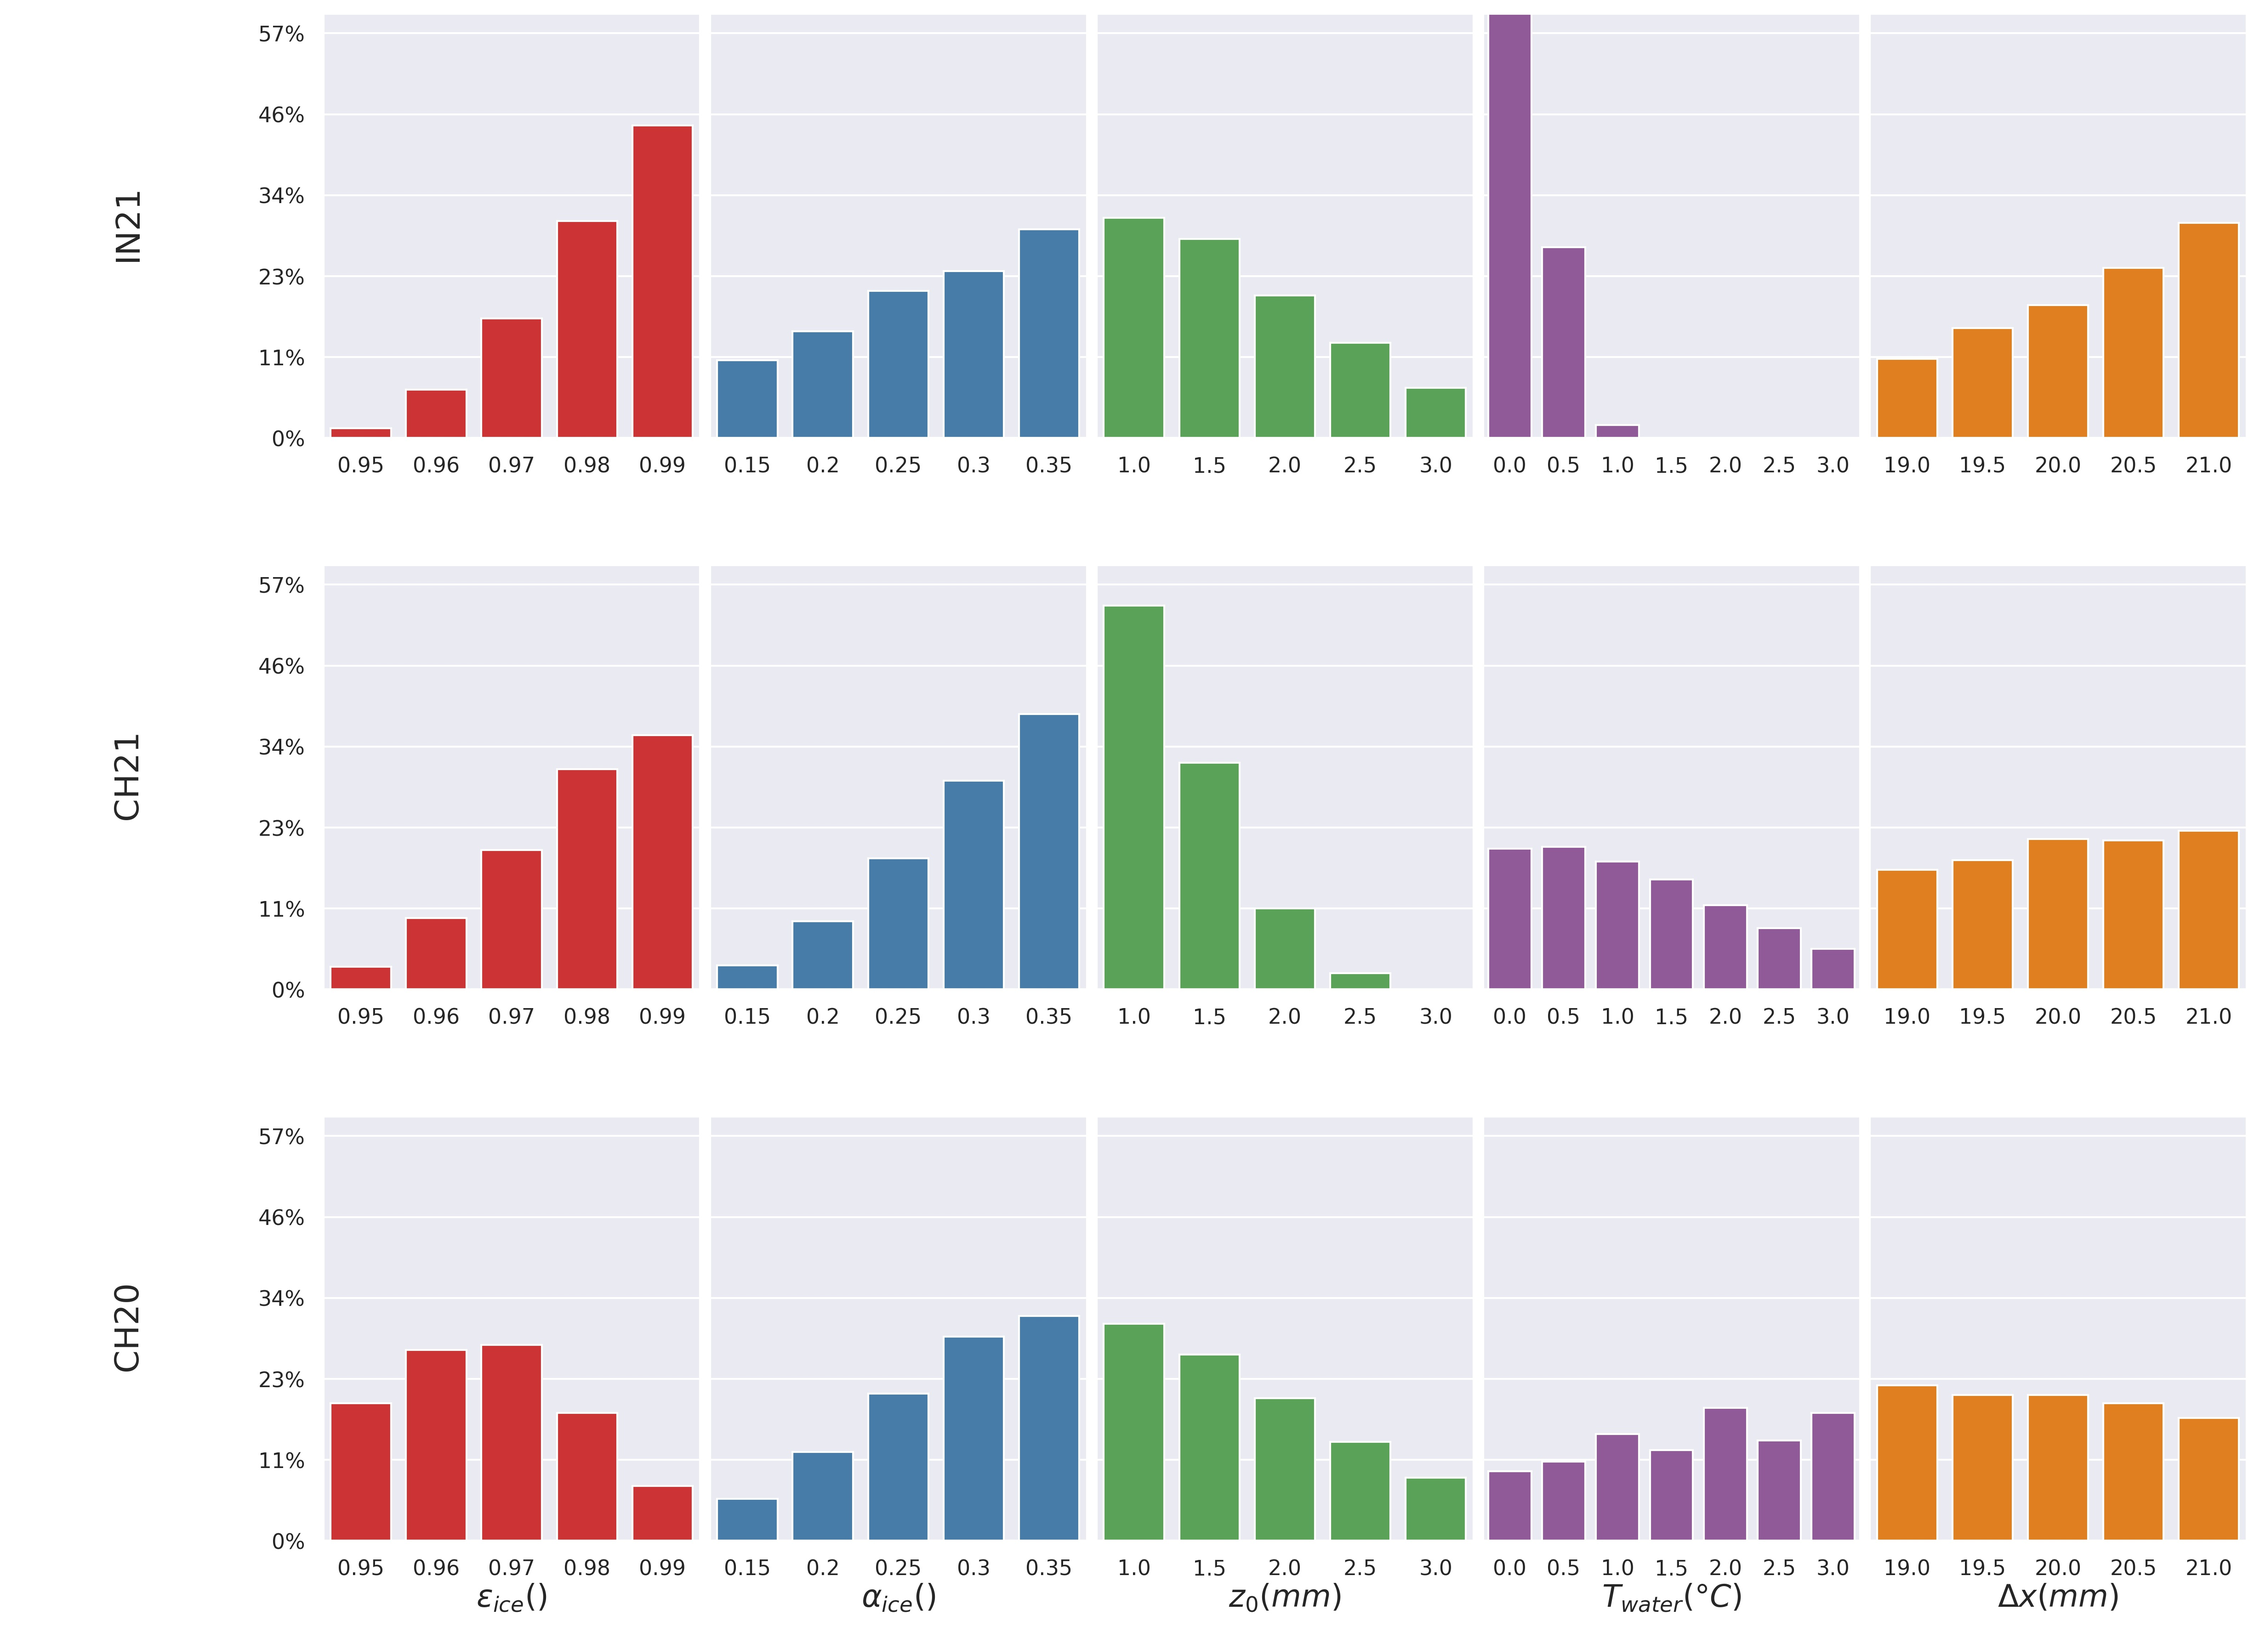
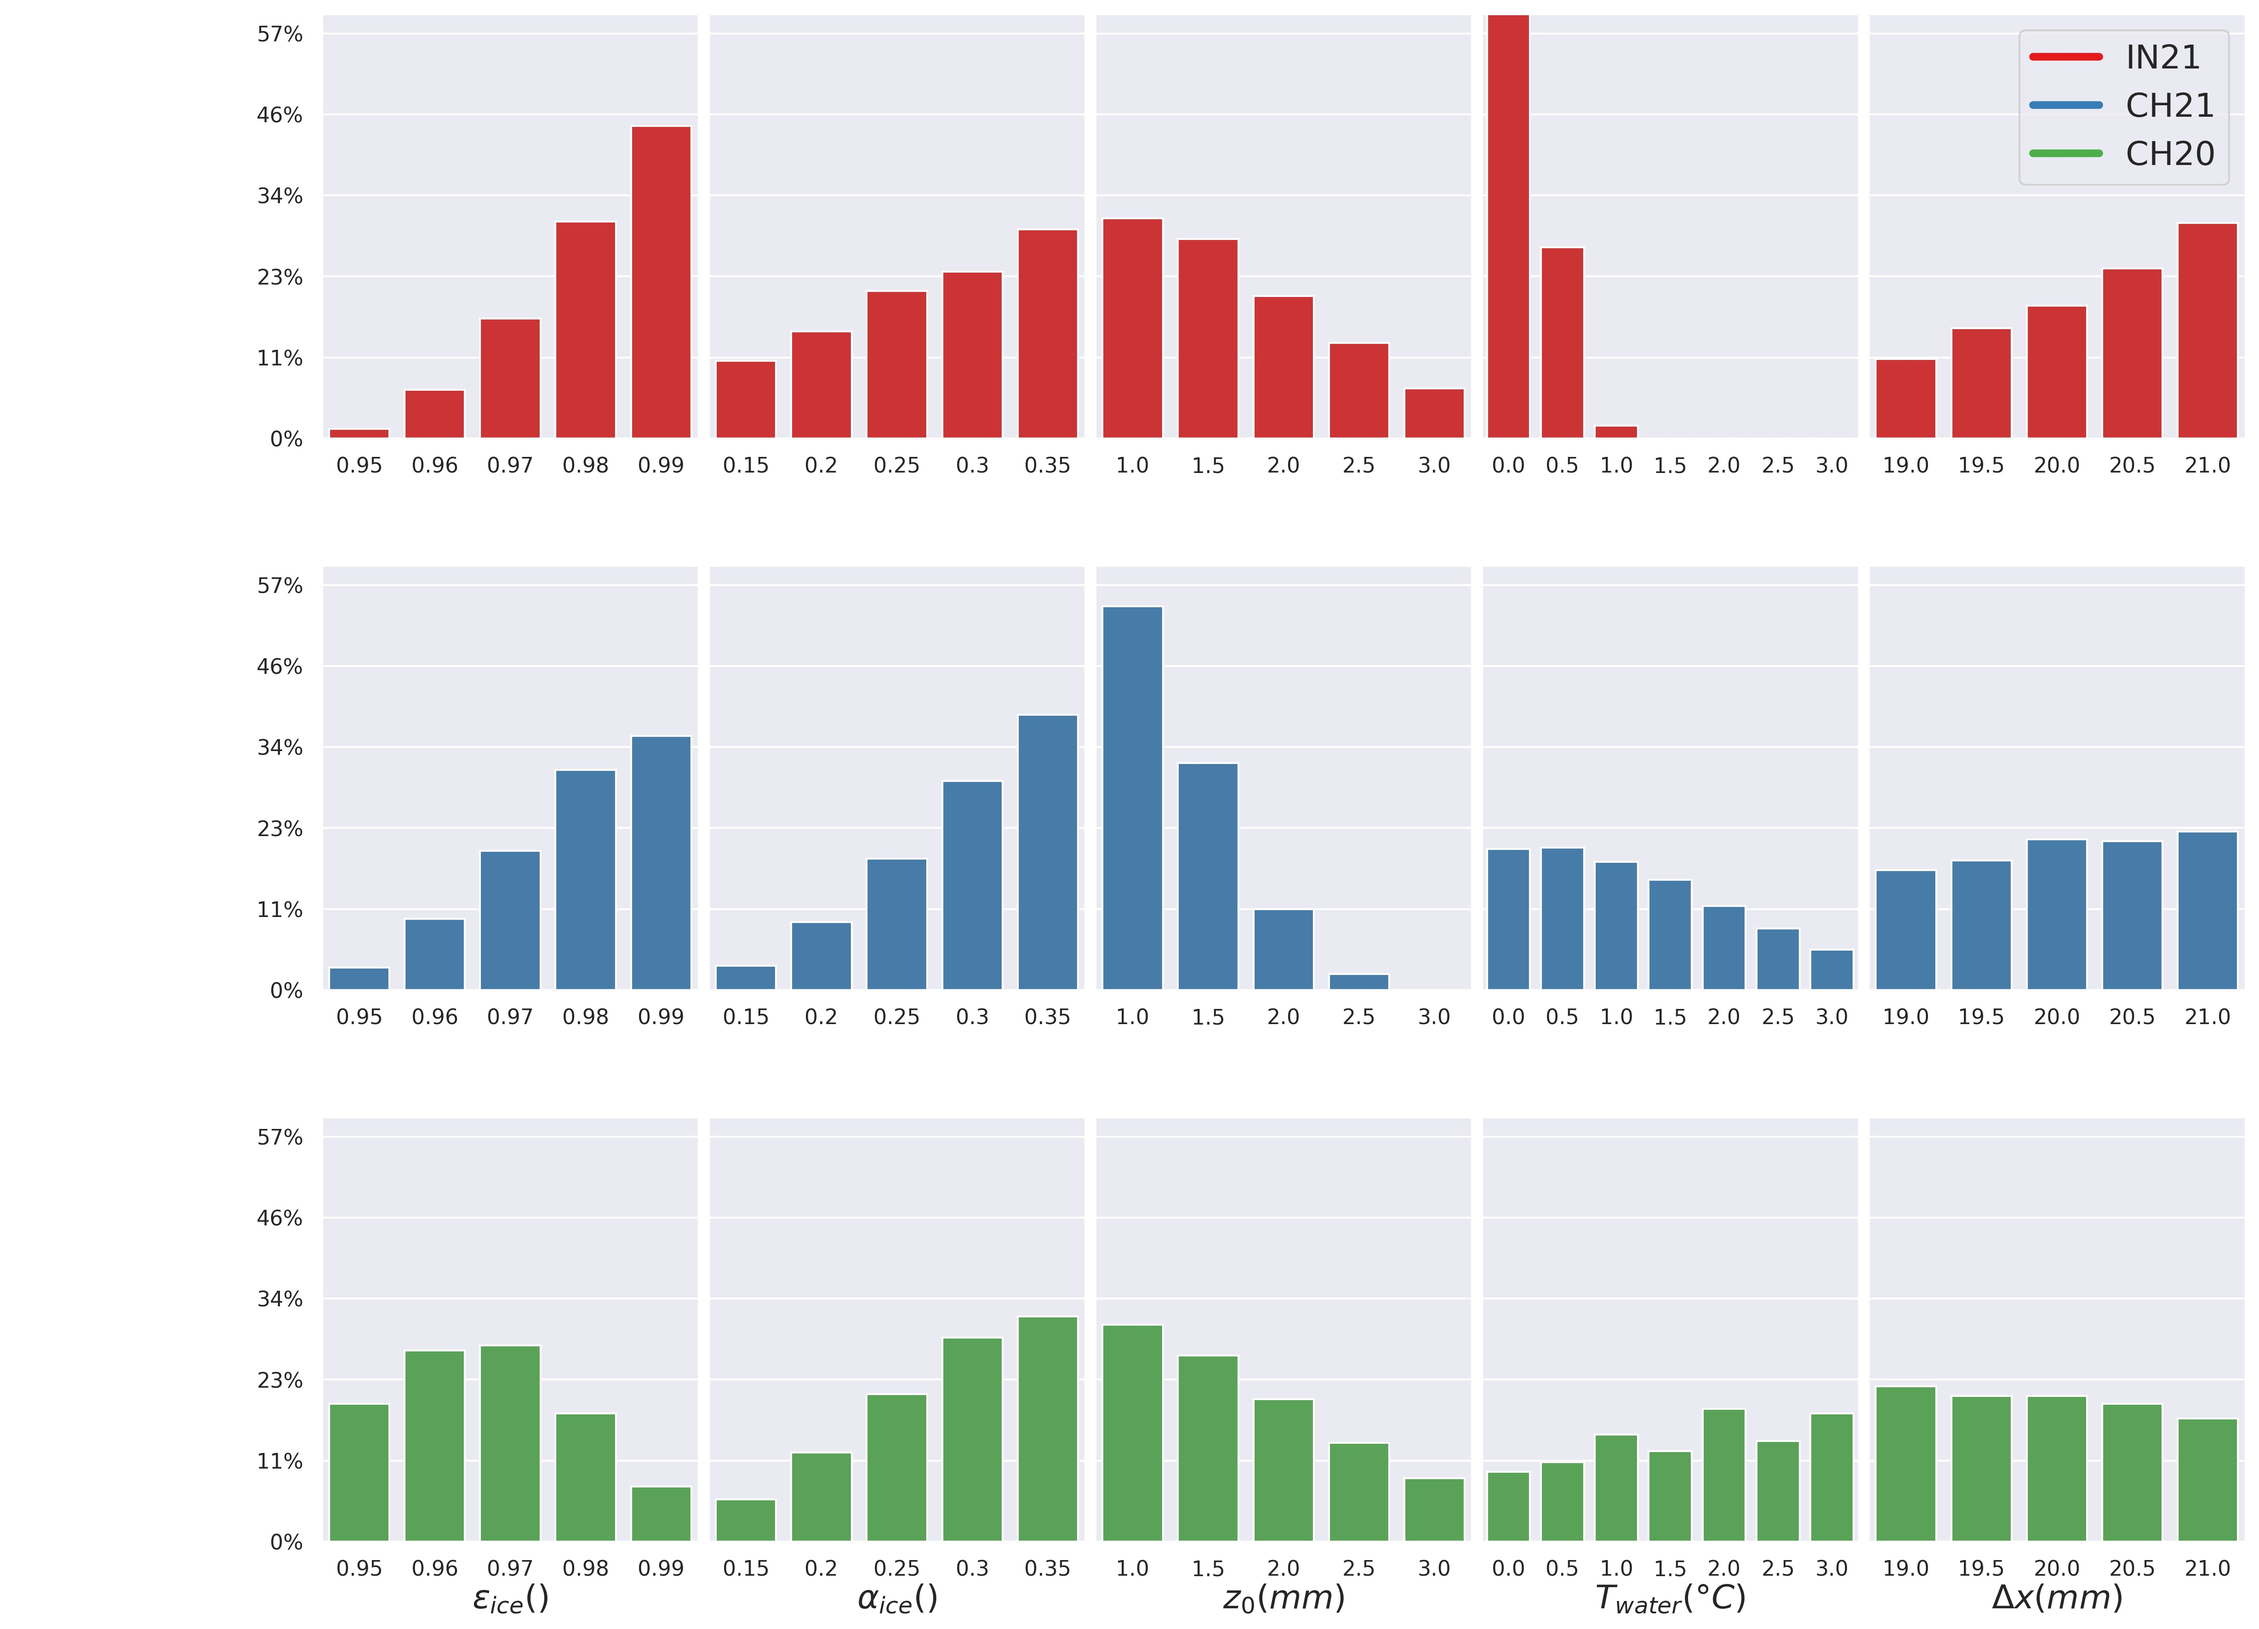
Prepare uq air

diff --git a/src/utils/sensitivity-histplot.py b/src/utils/sensitivity-histplot.py
@@ -16,6 +16,7 @@ import inspect
 import json
 from ast import literal_eval
 import matplotlib.ticker as mtick
+from matplotlib.lines import Line2D
 import math
 
 sys.path.append(
@@ -49,6 +50,10 @@ if __name__ == "__main__":
     # )
     fig = plt.figure(figsize=(18, 12))
     subfigs = fig.subfigures(len(locations), 1)
+    custom_colors = sns.color_palette("Set1", len(locations))
+    custom_lines = [Line2D([0], [0], color=custom_colors[0], lw=4),
+                    Line2D([0], [0], color=custom_colors[1], lw=4),
+                    Line2D([0], [0], color=custom_colors[2], lw=4)]
 
     for ctr, location in enumerate(locations):
         icestupa = Icestupa(location)
@@ -76,19 +81,21 @@ if __name__ == "__main__":
 
         df['A_I'] = df['A_I'].map(lambda x: (truncate(x,3)))
         print(df.head())
-        custom_colors = sns.color_palette("Set1", len(tuned_params))
 
         ax = subfigs[ctr].subplots(1, len(tuned_params), sharey=True)
         for i,param_name in enumerate(tuned_params):
             tuned_params[param_name] =[round(num, 4) for num in tuned_params[param_name]]
-            ax[i] = sns.countplot( x=param_name, color =custom_colors[i], data=df, order = tuned_params[param_name],
+            ax[i] = sns.countplot( x=param_name, color =custom_colors[ctr], data=df, order = tuned_params[param_name],
                 ax=ax[i], label = param_name)
             print(param_name)
             v = get_parameter_metadata(param_name)
             if ctr == 2:
-                ax[i].set_xlabel(v['latex'] + v['units'], fontsize=16)
+                ax[i].set_xlabel(v['latex'] + v['units'], fontsize="x-large")
             else:
                 ax[i].set_xlabel('')
+            if ctr == 0 and i == len(tuned_params)-1:
+                labels = [get_parameter_metadata(item)['shortname'] for item in locations]
+                ax[i].legend(custom_lines, labels, fontsize = "x-large")
 
             if param_name in ['DX', 'Z']:
                 labels = [item.get_text() for item in ax[i].get_xticklabels()]
@@ -101,14 +108,6 @@ if __name__ == "__main__":
             ax[i].set_ylabel("")
             ax[i].set_ylim([0,num_selected*0.6])
             ax[i].yaxis.set_major_formatter(mtick.PercentFormatter(num_selected))
-        subfigs[ctr].text(
-            0.04,
-            0.5,
-            get_parameter_metadata(location)["shortname"],
-            va="center",
-            rotation="vertical",
-            fontsize="x-large",
-        )
         subfigs[ctr].subplots_adjust(hspace=0.05, wspace=0.025)
 
     plt.savefig(

diff --git a/src/utils/cv.py b/src/utils/cv.py
@@ -45,18 +45,30 @@ def load_obj(path, name ):
 def bounds(var, res, change = 5):
     return np.arange(var * (100-change)/100, var * (100+change)/100 + res, res).tolist()
 
-def param_ranges(icestupa):
+def param_ranges(icestupa, num=10):
+    params = ['IE', 'A_I', 'Z', 'T_W']
+    params_range = []
+    for param in params:
+        y_lim=get_parameter_metadata(param)['ylim']
+        # param_range = np.arange(y_lim[0], y_lim[1], y_lim[0]- y_lim[1])
+        param_range = np.linspace(y_lim[0], y_lim[1], num)
+        param_range = np.round(param_range, 4)
+        params_range.append(param_range)
+        print(param, param_range)
 
-    tuned_params = {
-        'IE': np.arange(0.95, 0.991, 0.01).tolist(),
-        'A_I': np.arange(0.15, 0.351, 0.05).tolist(),
-        # 'A_S': bounds(var=icestupa.A_S, res = 0.05),
-        # 'A_DECAY': bounds(var=icestupa.A_DECAY, res = 0.5),
-        # 'T_PPT': np.arange(0, 2.1 , 1).tolist(),
-        'Z': np.arange(0.001, 0.0031, 0.0005).tolist(),
-        'T_W': np.arange(0, 3.1 , 0.5).tolist(),
-        'DX': bounds(var=icestupa.DX, res = 0.0005),
-    }
+
+    tuned_params = {params[i]: params_range[i] for i in range(len(params))}
+    # tuned_params = {
+    #     'IE': np.arange(0.95, 0.991, 0.005).tolist(),
+    #     # 'IE': np.arange(0.95, 0.991, 0.005).tolist(),
+    #     'A_I': np.arange(0.15, 0.351, 0.025).tolist(),
+    #     'Z': np.arange(0.001, 0.0031, 0.00025).tolist(),
+    #     'T_W': np.arange(0, 2.91, 0.3).tolist(),
+    #     # 'A_S': bounds(var=icestupa.A_S, res = 0.05),
+    #     # 'A_DECAY': bounds(var=icestupa.A_DECAY, res = 0.5),
+    #     # 'T_PPT': np.arange(0, 2.1 , 1).tolist(),
+    #     # 'DX': bounds(var=icestupa.DX, res = 0.0005),
+    # }
     return tuned_params
 
 class CV_Icestupa(BaseEstimator,Icestupa):

diff --git a/src/models/methods/metadata.py b/src/models/methods/metadata.py
@@ -14,7 +14,7 @@ def get_parameter_metadata(
         "Z": {
             "name": "Surface roughness",
             "latex": "$z_{0}$",
-            "ylim": [0.001, 0.005],
+            "ylim": [0.001, 0.003],
             "kind": "parameter",
             "units": "($mm$)",
         },
@@ -33,7 +33,7 @@ def get_parameter_metadata(
         "T_W": {
             "name": "Water temperature",
             "latex": "$T_{water}$",
-            "ylim": [1, 5],
+            "ylim": [0, 3],
             "kind": "parameter",
             "units": "($\\degree C$)",
         },
